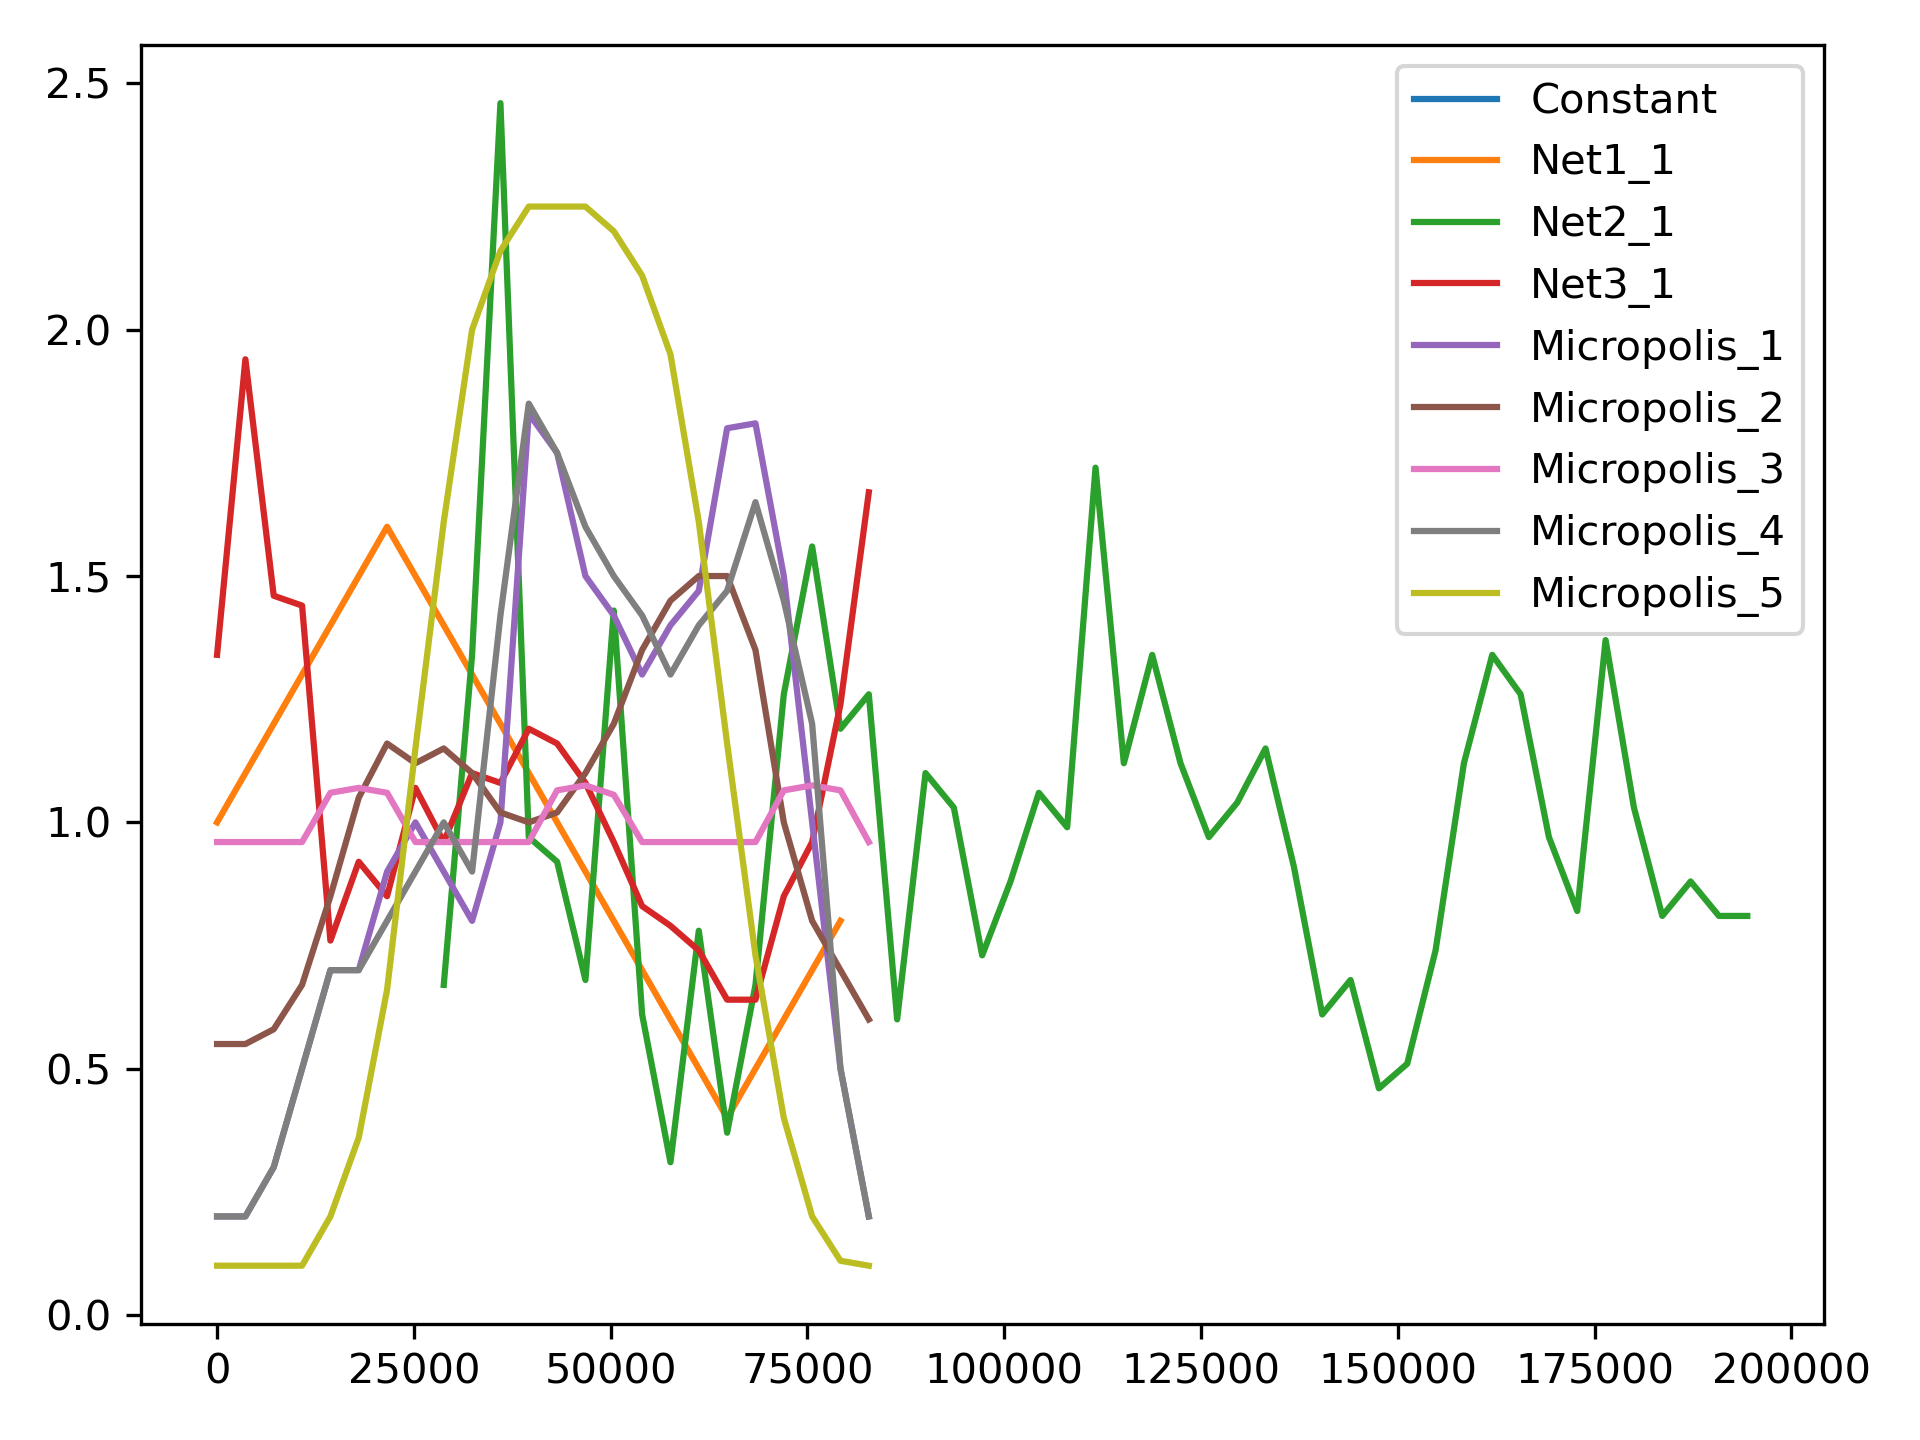
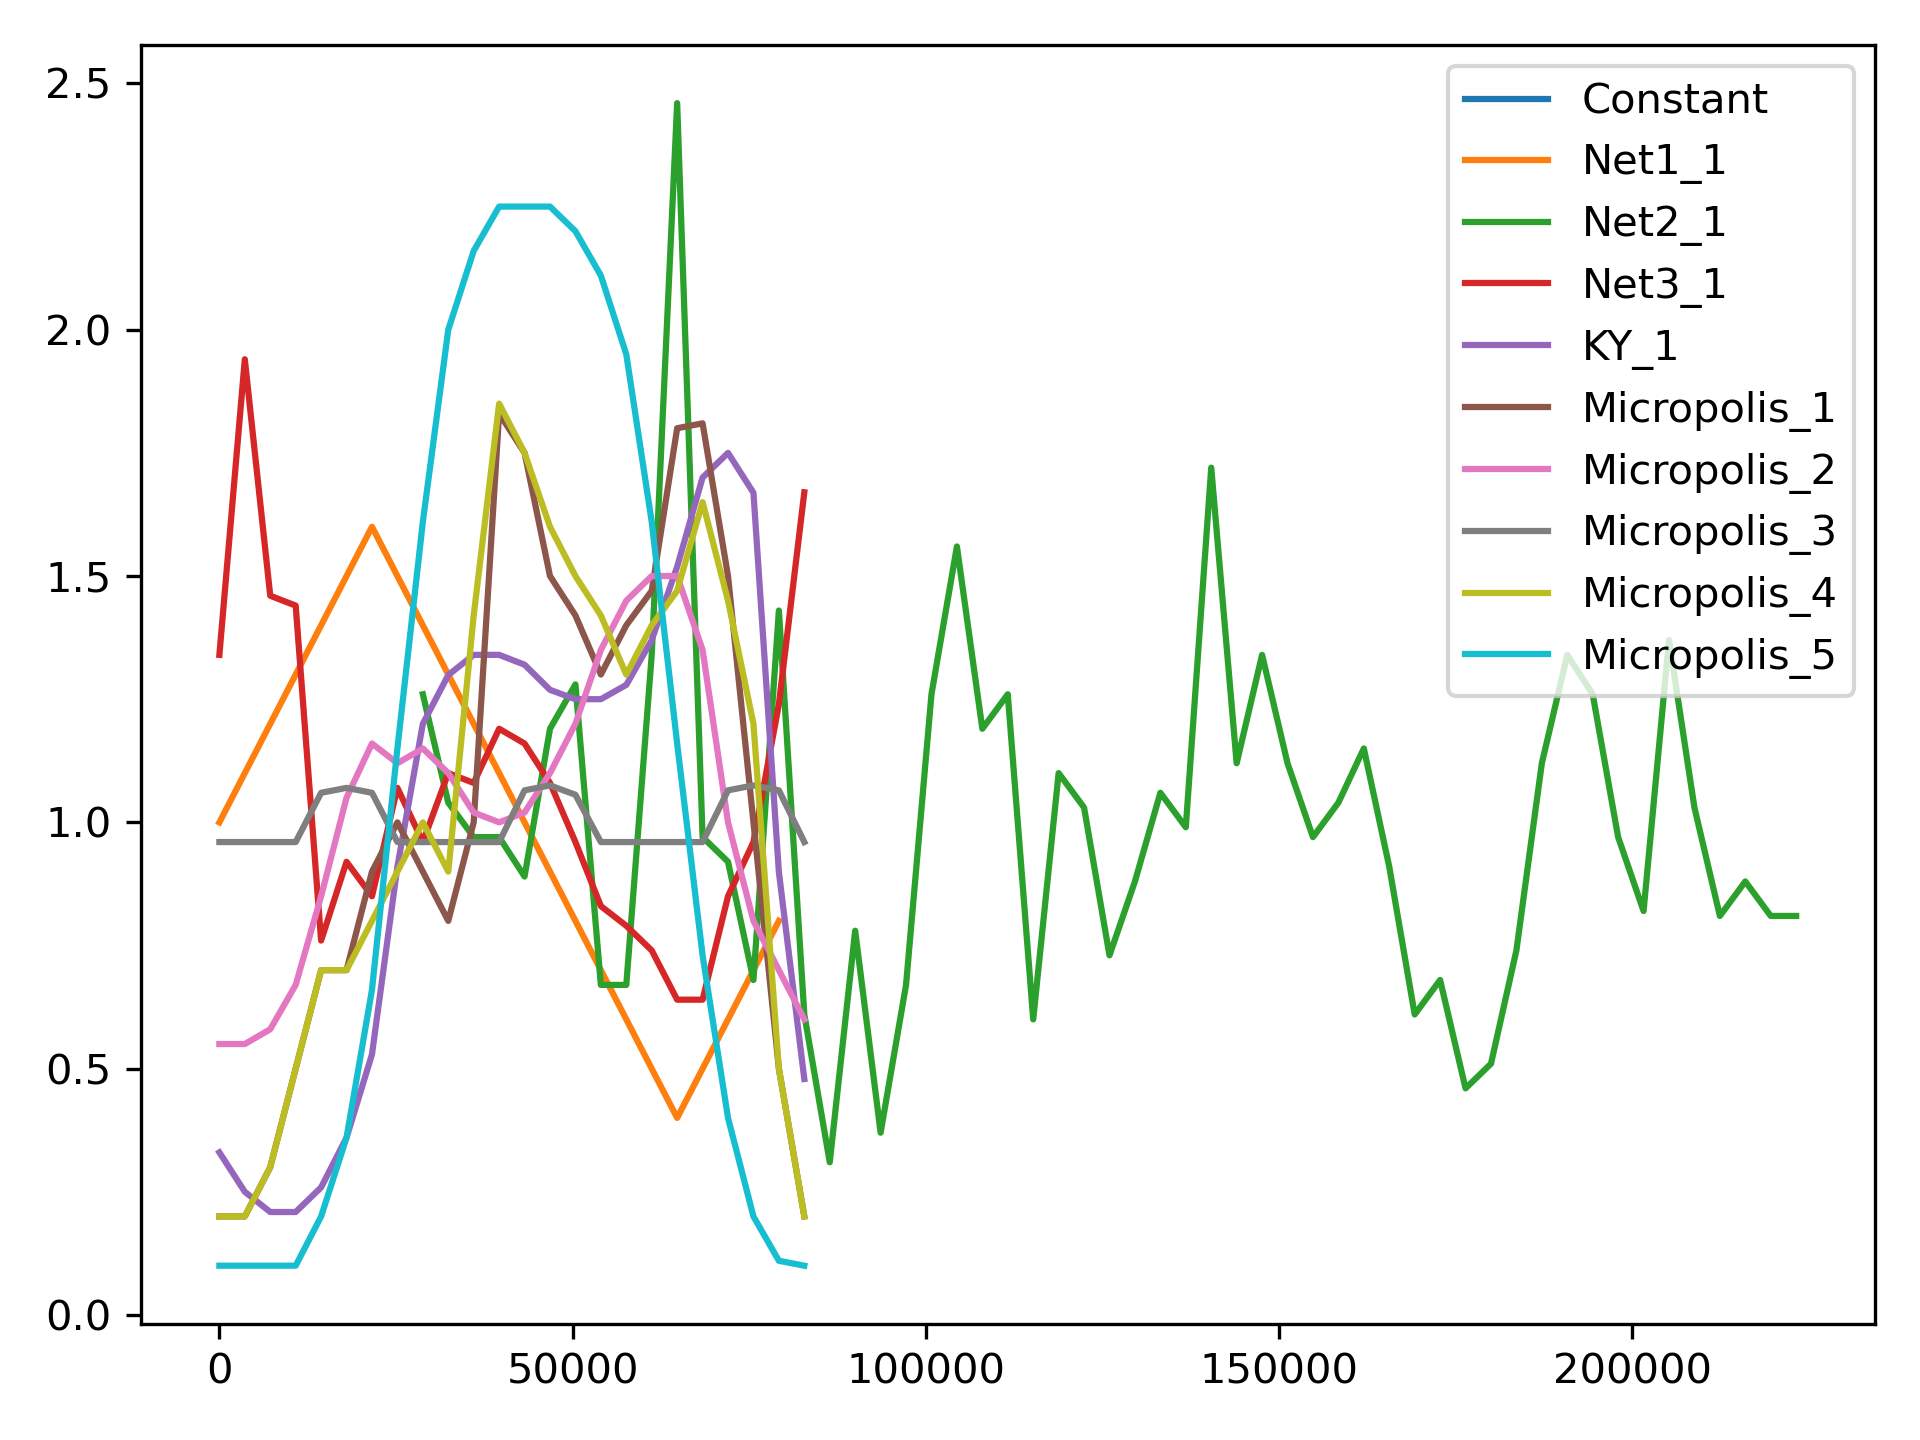
started demand library test, clean up

diff --git a/wntr/library/demand_library.py b/wntr/library/demand_library.py
@@ -28,7 +28,7 @@ class DemandPatternLibrary(object):
         
         for entry in data:
             name = entry['name']
-            self.library[name] = entry
+            self.add_pattern(name, entry)
     
     @property
     def pattern_name_list(self):
@@ -57,9 +57,9 @@ class DemandPatternLibrary(object):
         assert isinstance(new_name, str)
         assert name != new_name
 
-        entry = self.library[name].copy()
+        entry = self.get_pattern(name).copy()
         entry['name'] = new_name
-        self.library[new_name] = entry
+        self.add_pattern(new_name, entry)
 
     def filter_by_category(self, category):
         """
@@ -68,8 +68,8 @@ class DemandPatternLibrary(object):
         assert isinstance(category, (str, NoneType))
 
         subset = []
-        for name in self.library.keys():
-            entry = self.library[name]
+        for name in self.pattern_name_list:
+            entry = self.get_pattern(name)
             if entry['category'] == category:
                 subset.append(entry)
 
@@ -119,12 +119,17 @@ class DemandPatternLibrary(object):
         Resample multipliers, which can change if the start_clocktime, 
         pattern_timestep, or wrap status changes
         """
+        # Pattern defined using the current time parameters
+        entry = self.get_pattern(name)
+        entry_start_clocktime = entry['start_clocktime']
+
         pattern = self.to_Pattern(name)
         
+        # index uses new time parameters
         index = np.arange(start_clocktime, duration, pattern_timestep)
         multipliers = []
         for i in index:
-            multipliers.append(pattern.at(i))
+            multipliers.append(pattern.at(i-entry_start_clocktime))
         
         if inplace:
             self.library[name]['start_clocktime'] = start_clocktime
@@ -140,14 +145,12 @@ class DemandPatternLibrary(object):
         """
         assert isinstance(name, str)
         assert isinstance(entry, dict)
-        assert entry.keys() <= ['name',
-                                'category',
-                                'description',
-                                'citation',
-                                'start_clocktime',
-                                'pattern_timestep',
-                                'wrap',
-                                'multipliers']
+        required_keys = ['name', 
+                         'start_clocktime', 
+                         'pattern_timestep', 
+                         'wrap', 
+                         'multipliers']
+        assert set(required_keys) <= set(entry.keys())
 
         self.library[name] = entry
         
@@ -184,7 +187,7 @@ class DemandPatternLibrary(object):
                  'wrap': wrap,
                  'multipliers': list(multipliers)}
 
-        self.library[name] = entry
+        self.add_pattern(name, entry)
 
     def add_gaussian_pattern(self, mean, std, duration=86400, 
                              pattern_timestep=3600, start_clocktime=0, 
@@ -213,7 +216,7 @@ class DemandPatternLibrary(object):
                  'wrap': wrap,
                  'multipliers': list(multipliers)}
 
-        self.library[name] = entry
+        self.add_pattern(name, entry)
 
     def add_triangular_pattern(self, start, peak, end, duration=86400, 
                                pattern_timestep=3600, start_clocktime=0,
@@ -245,7 +248,7 @@ class DemandPatternLibrary(object):
                  'wrap': wrap,
                  'multipliers': list(multipliers)}
 
-        self.library[name] = entry
+        self.add_pattern(name, entry)
 
     def add_combined_pattern(self, names, duration=86400, 
                              pattern_timestep=3600, start_clocktime=0,
@@ -255,18 +258,15 @@ class DemandPatternLibrary(object):
         """
         series = {}
         for n in names: 
-            entry = self.library[n]
+            entry = self.get_pattern(n)
             entry_start_clocktime = entry['start_clocktime']
             
-            # For example, if the start_clocktime = 3:00 and the 
-            # entry_start_clocktime = 1:00, then the adjusted_start_clocktime = -2:00
-            adjusted_start_clocktime = entry_start_clocktime - start_clocktime
-            pattern = self.to_Pattern(n, pattern_start = adjusted_start_clocktime)
+            pattern = self.to_Pattern(n)
     
             index = np.arange(start_clocktime, duration, pattern_timestep)
             multipliers = []
             for i in index:
-                multipliers.append(pattern.at(i))
+                multipliers.append(pattern.at(i-start_clocktime))
     
             series[n] = pd.Series(index=index, data=multipliers)
             
@@ -285,41 +285,41 @@ class DemandPatternLibrary(object):
                  'wrap': wrap,
                  'multipliers': list(multipliers)}
     
-        self.library[name] = entry
+        self.add_pattern(name, entry)
 
-
-    def to_Pattern(self, name, pattern_start=None):
+    def to_Pattern(self, name, pattern_start=0):
         """
         Convert the pattern library entry to a WNTR Pattern
         """
 
-        entry = self.library[name]
-        if pattern_start is None:
-            start_clocktime = entry['start_clocktime']
-        else:
-            start_clocktime = pattern_start
+        entry = self.get_pattern(name)
+
+        # Note pattern_start is only used by the EpanetSimulator or WNTRSimulator
         pattern_timestep = entry['pattern_timestep']
+        pattern_interpolation=True
         multipliers = entry['multipliers']
         wrap = entry['wrap']
         pattern = Pattern(name=name,
                           multipliers=multipliers,
-                          time_options=(start_clocktime, pattern_timestep),
+                          time_options=(pattern_start, 
+                                        pattern_timestep, 
+                                        pattern_interpolation),
                           wrap=wrap)
 
         return pattern
 
-    def to_Series(self, name, duration=86400):
+    def to_Series(self, name, duration=None):
         """
         Convert the pattern library entry to a Pandas Series
         """
 
-        entry = self.library[name]
+        entry = self.get_pattern(name)
 
         start_clocktime = entry['start_clocktime']
         pattern_timestep = entry['pattern_timestep']
         if duration is None:
             multipliers = entry['multipliers']
-            duration = len(multipliers)*pattern_timestep
+            duration = start_clocktime + len(multipliers)*pattern_timestep
 
         pattern = self.to_Pattern(name)
 
@@ -327,7 +327,7 @@ class DemandPatternLibrary(object):
         index = np.arange(start_clocktime, duration, pattern_timestep)
         data = []
         for i in index:
-            data.append(pattern.at(i))
+            data.append(pattern.at(i-start_clocktime))
         series = pd.Series(index=index, data=data)
 
         return series
@@ -350,18 +350,13 @@ class DemandPatternLibrary(object):
         """
 
         if names is None:
-            names = self.library.keys()
+            names = self.pattern_name_list
 
         if ax is None:
             fig, ax = plt.subplots()
 
         for name in names:
-            if duration is None:
-                entry = self.library[name]
-                entry_duration = len(entry['multipliers'])*entry['pattern_timestep']
-            else:
-                entry_duration = duration
-            series = self.to_Series(name, duration=entry_duration)
+            series = self.to_Series(name, duration=duration)
             series.plot(ax=ax, linewidth=linewidth, label=name)
 
         ax.legend()

diff --git a/wntr/tests/test_library_demand.py b/wntr/tests/test_library_demand.py
@@ -1,0 +1,130 @@
+import unittest
+from unittest import SkipTest
+import wntr
+from os.path import abspath, dirname, join
+
+import matplotlib.pylab as plt
+from wntr.library import DemandPatternLibrary
+import pandas as pd
+
+testdir = dirname(abspath(str(__file__)))
+test_datadir = join(testdir, "networks_for_testing")
+ex_datadir = join(testdir, "..", "..", "examples", "networks")
+
+class TestDemandPatternLibrary(unittest.TestCase):
+    @classmethod
+    def setUpClass(cls):
+        pass
+
+    @classmethod
+    def tearDownClass(cls):
+        pass
+
+    def test_demand_pattern_library(self):
+
+        DPL = DemandPatternLibrary()
+        print(DPL.pattern_name_list)
+
+        DPL.normalize_pattern('Net1_1')
+
+        # Plot patterns
+        DPL.plot_patterns() # plot all patterns in the library
+        DPL.plot_patterns(names=['Net1_1', 'Net2_1', 'Net3_1'])
+
+        DPL.add_combined_pattern(names=['Net1_1', 'Net2_1'], duration=3*24*3600, name='Combo_1')
+        DPL.plot_patterns(names=['Net1_1', 'Net2_1', 'Combo_1'])
+                                   
+        """
+        pat = DPL.get_pattern('Net2_1')
+        print(pat)
+        plt.figure()
+        temp1 = DPL.to_Series("Net2_1")
+        print(temp1)
+        ax = temp1.plot(linewidth=5)
+        temp2 = DPL.resample_multipliers("Net2_1", 72*3600, 3600, 0, inplace=False)
+        print(temp2)
+        ax = temp2.plot(linewidth=2, ax=ax)
+        temp3 = DPL.resample_multipliers("Net2_1", 96*3600, 5000, 14400, inplace=False)
+        print(temp3)
+        ax = temp3.plot(linewidth=1, ax=ax)
+
+        temp = pd.DataFrame({'Net2_1': temp1, 
+                             'Net2_1a': temp2,
+                             'Net2_1b': temp3
+                             })
+        print(temp)
+        """
+
+        DPL.copy_pattern('Net2_1', 'Net2_1_resampled')
+        multipliers = DPL.resample_multipliers('Net2_1_resampled', duration=3*24*3600,
+                                               pattern_timestep=3600, start_clocktime=0)
+
+        print(multipliers)
+        DPL.plot_patterns(names=['Net2_1_resampled', 'Net2_1'])
+
+        # Filter patterns by category
+        reidential_patterns = DPL.filter_by_category('Residential')
+        commercial_patterns = DPL.filter_by_category('Commercial')
+        indistrial_patterns = DPL.filter_by_category('Industrial')
+        none_patterns = DPL.filter_by_category(None)
+
+        # Convert to a WNTR Pattern object
+        pattern = DPL.to_Pattern('Constant')
+
+        # Convert to a Pandas Series and change time parameters, this could be used to 
+        # update the pattern or create a new pattern
+        series_1 = DPL.to_Series('Constant')
+        series_24 = DPL.to_Series('Constant', duration=24*3600)
+
+        # Add pulse, gaussian, and traingular patterns to the libary
+        DPL.add_pulse_pattern([3*3600,6*3600,14*3600,20*3600], normalize=True, name='Pulse')
+        DPL.add_pulse_pattern([3*3600,6*3600,14*3600,20*3600], invert=True, normalize=True, name='Pulse_invert')
+        DPL.add_gaussian_pattern(12*3600, 5*3600, normalize=True, name='Gaussian')
+        DPL.add_triangular_pattern(2*3600, 12*3600, 18*3600, normalize=True, name='Triangular')
+        DPL.add_combined_pattern(['Pulse', 'Gaussian', 'Triangular'], normalize=True, name='Combined')
+        DPL.plot_patterns(names=['Pulse', 'Pulse_invert', 'Gaussian', 'Triangular', 'Combined'])
+
+        # Copy pattern and apply noise
+        DPL.copy_pattern('Gaussian', 'Gaussian_with_noise')
+        DPL.apply_noise('Gaussian_with_noise', 0.1, normalize=True)
+        DPL.plot_patterns(names=['Gaussian', 'Gaussian_with_noise'])
+
+        DPL.write_json('New_demand_pattern_library.json')
+
+        # Create a water network model
+        wn = wntr.network.WaterNetworkModel(ex_datadir+'/Net1.inp')
+
+        # Get demands associated with a junction
+        junction = wn.get_node('11')
+        print(junction.demand_timeseries_list)
+
+        # Modify the base value and pattern of the original demand
+        junction.demand_timeseries_list[0].base_value = 6e-5
+        junction.demand_timeseries_list[0].pattern_name = '1'
+        junction.demand_timeseries_list[0].category = 'A'
+
+        # Add a new pattern from the pattern library, then add a demand
+        print(wn.options.time.pattern_timestep, wn.options.time.start_clocktime)
+        pattern = DPL.to_Pattern('Net2_1_resampled')
+        wn.add_pattern('Net2_1_resample', pattern)
+        junction.add_demand(base=5e-5, pattern_name='Net2_1_resample', category='B')
+        print(junction.demand_timeseries_list)
+
+        # Add another pattern from a list, then add a demand
+        wn.add_pattern('New', [1,1,1,0,0,0,1,0,0.5,0.5,0.5,1])
+        junction.add_demand(base=2e-5, pattern_name='New', category='C')
+        print(junction.demand_timeseries_list)
+
+        # Simulate hydraulics
+        sim = wntr.sim.EpanetSimulator(wn)
+        results = sim.run_sim()
+
+        # Plot results on the network
+        pressure_at_5hr = results.node['pressure'].loc[5*3600, :]
+        wntr.graphics.plot_network(wn, node_attribute=pressure_at_5hr, node_size=30, 
+                                title='Pressure at 5 hours')
+
+        print(wn.pattern_name_list)
+
+if __name__ == "__main__":
+    unittest.main()

diff --git a/wntr/network/elements.py b/wntr/network/elements.py
@@ -2012,7 +2012,7 @@ class Pattern(object):
         A list of multipliers that makes up the pattern.
     time_options : wntr TimeOptions or tuple
         The water network model options.time object or a tuple of (pattern_start, 
-        pattern_timestep) in seconds.
+        pattern_timestep, pattern_interpolation) in seconds or bool.
     wrap : bool, optional
         Boolean indicating if the pattern should be wrapped.
         If True (the default), then the pattern repeats itself forever; if 
@@ -2030,6 +2030,8 @@ class Pattern(object):
                 tmp = TimeOptions()
                 tmp.pattern_start = time_options[0]
                 tmp.pattern_timestep = time_options[1]
+                if len(time_options) == 3:
+                    tmp.pattern_interpolation = time_options[2]
                 time_options = tmp
             elif not isinstance(time_options, TimeOptions):
                 raise ValueError('Pattern->time_options must be a TimeOptions class or null')

diff --git a/documentation/libraries.rst b/documentation/libraries.rst
@@ -91,7 +91,7 @@ Load the default demand pattern library, print names of the library entries, and
 	
     >>> demand_library = DemandPatternLibrary()
     >>> print(demand_library.pattern_name_list)
-    ['Constant', 'Net1_1', 'Net2_1', 'Net3_1', 'Micropolis_1', 'Micropolis_2', 'Micropolis_3', 'Micropolis_4', 'Micropolis_5']
+    ['Constant', 'Net1_1', 'Net2_1', 'Net3_1', 'KY_1', 'Micropolis_1', 'Micropolis_2', 'Micropolis_3', 'Micropolis_4', 'Micropolis_5']
     >>> ax = demand_library.plot_patterns()
 	
 .. doctest::
@@ -210,5 +210,5 @@ Load an existing demand pattern library for use in subsequent projects.
 
     >>> custom_demand_library = DemandPatternLibrary("Custom_demand_pattern_library.json")
     >>> print(custom_demand_library.pattern_name_list)
-    ['Constant', 'Net1_1', 'Net2_1', 'Net3_1', 'Micropolis_1', 'Micropolis_2', 'Micropolis_3', 'Micropolis_4', 'Micropolis_5', 'Pulse', 'Gaussian', 'Gaussian_with_noise', 'Net2_1_resampled']
+    ['Constant', 'Net1_1', 'Net2_1', 'Net3_1', 'KY_1', 'Micropolis_1', 'Micropolis_2', 'Micropolis_3', 'Micropolis_4', 'Micropolis_5', 'Pulse', 'Gaussian', 'Gaussian_with_noise', 'Net2_1_resampled']
 	
